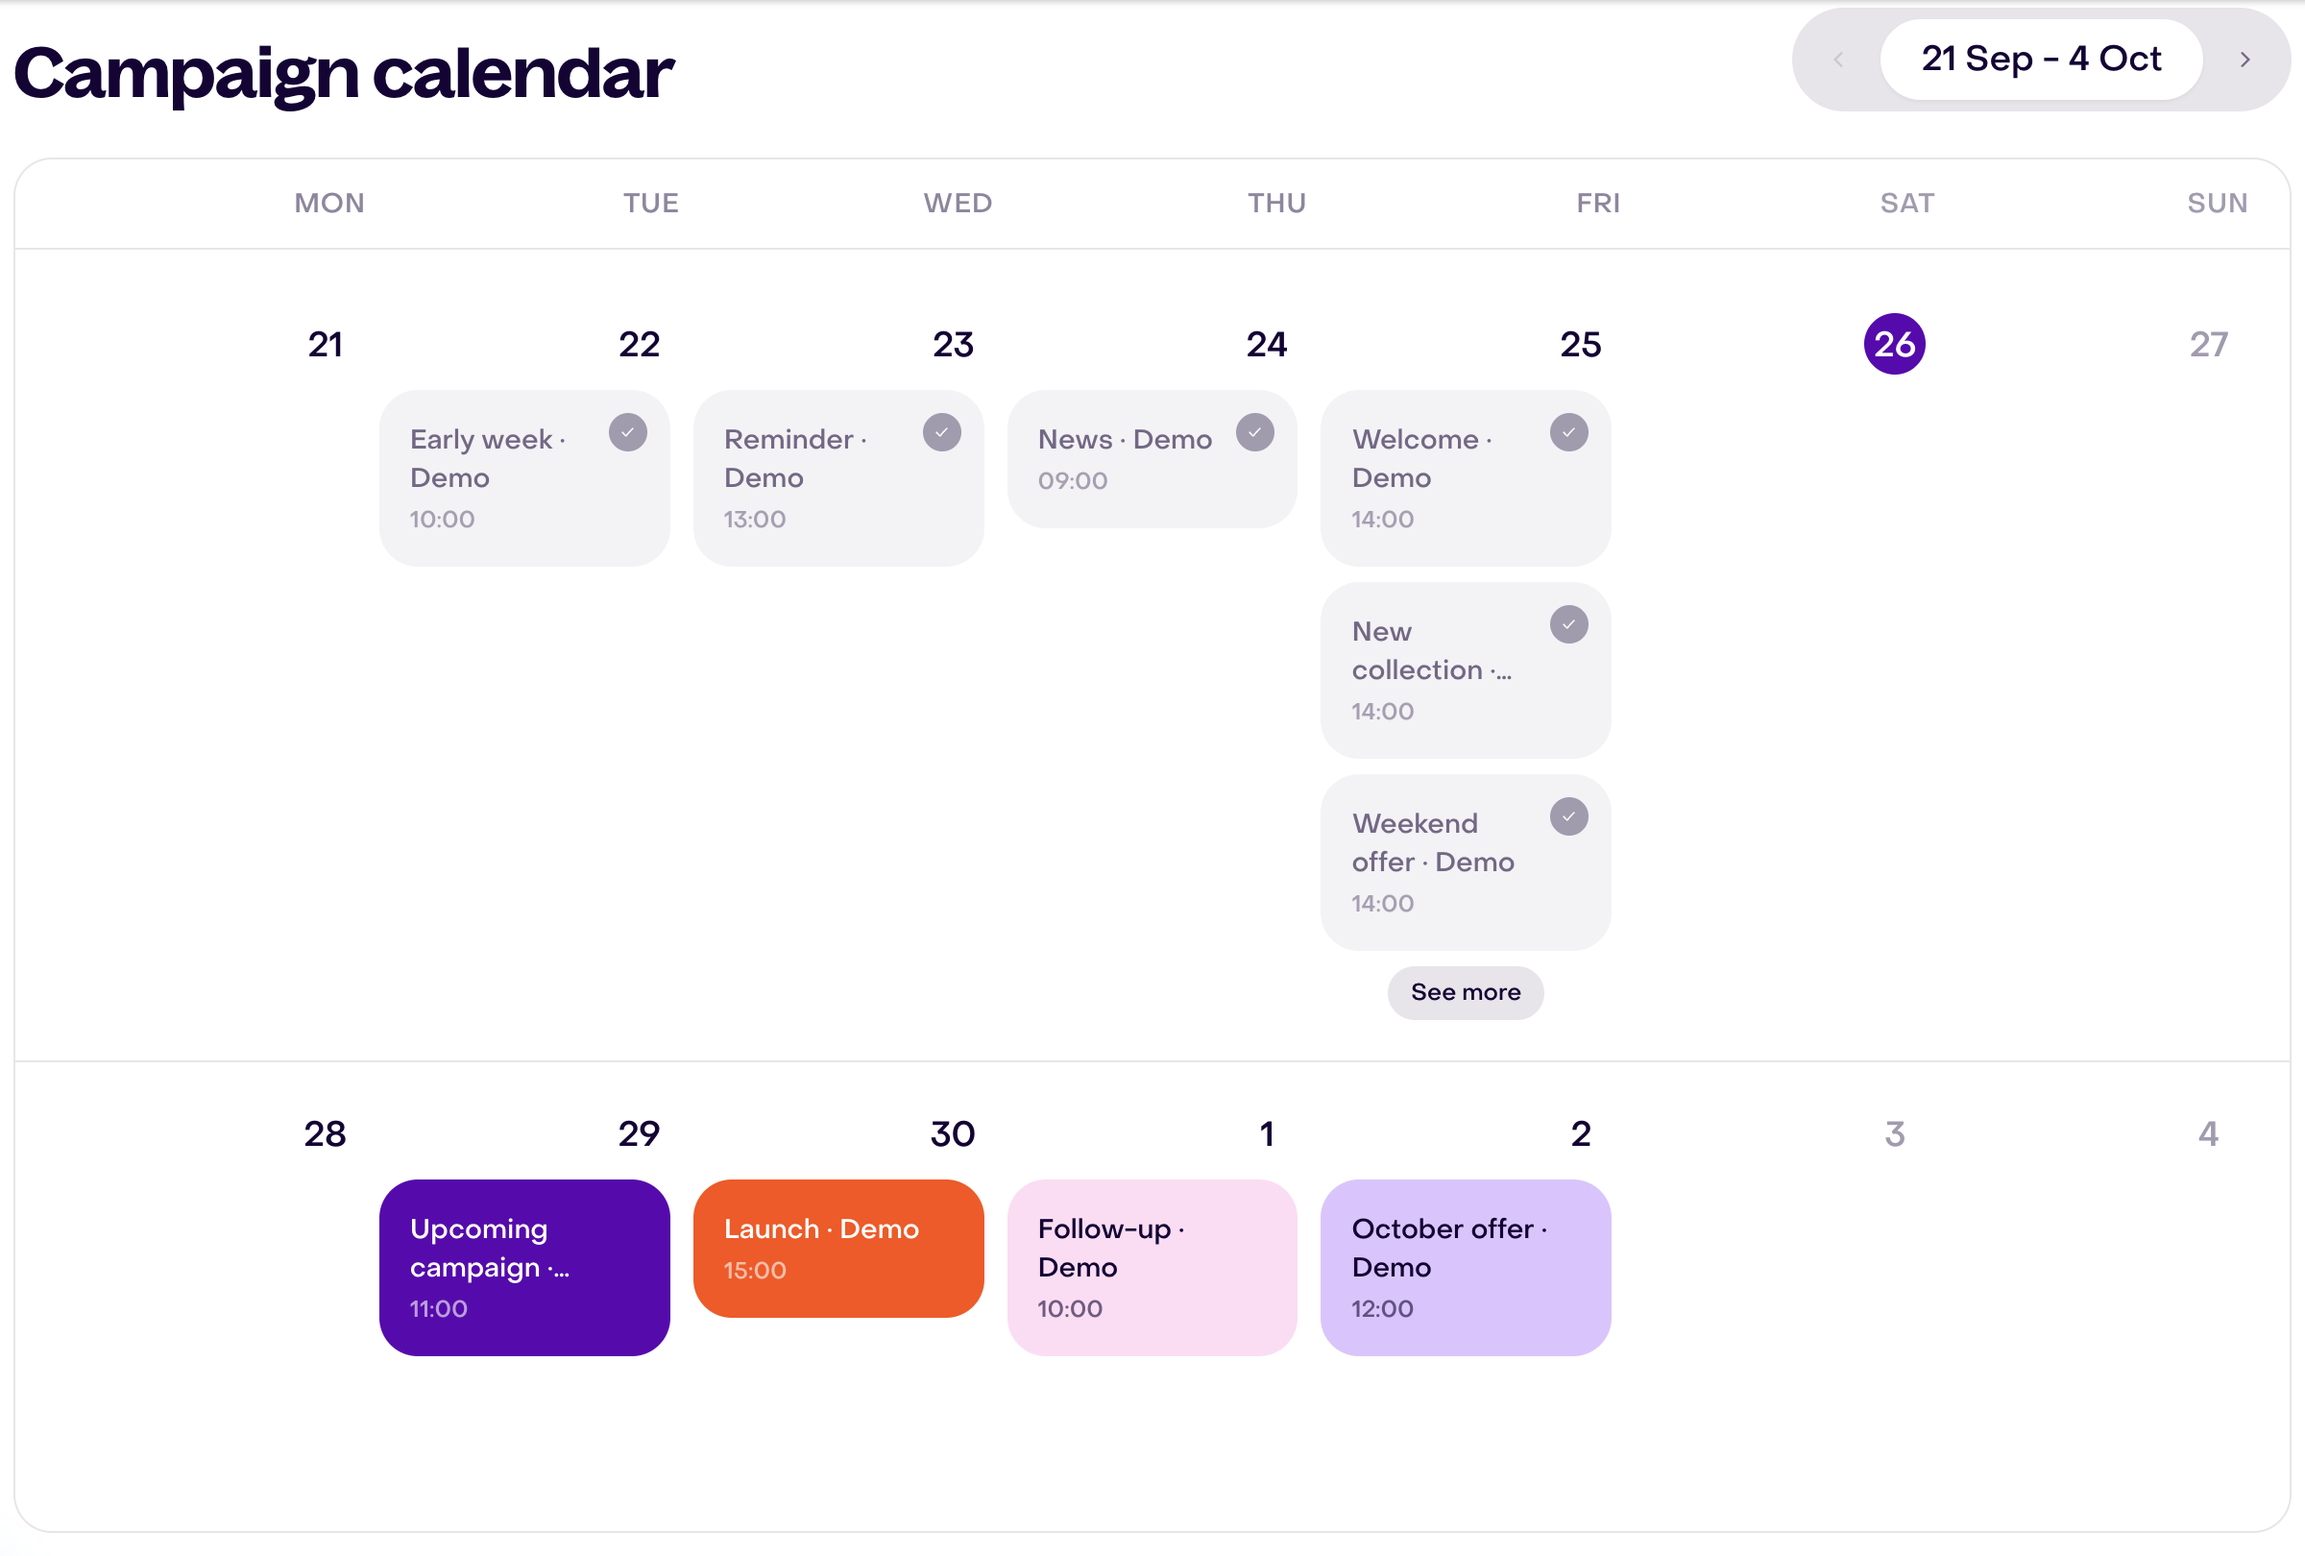
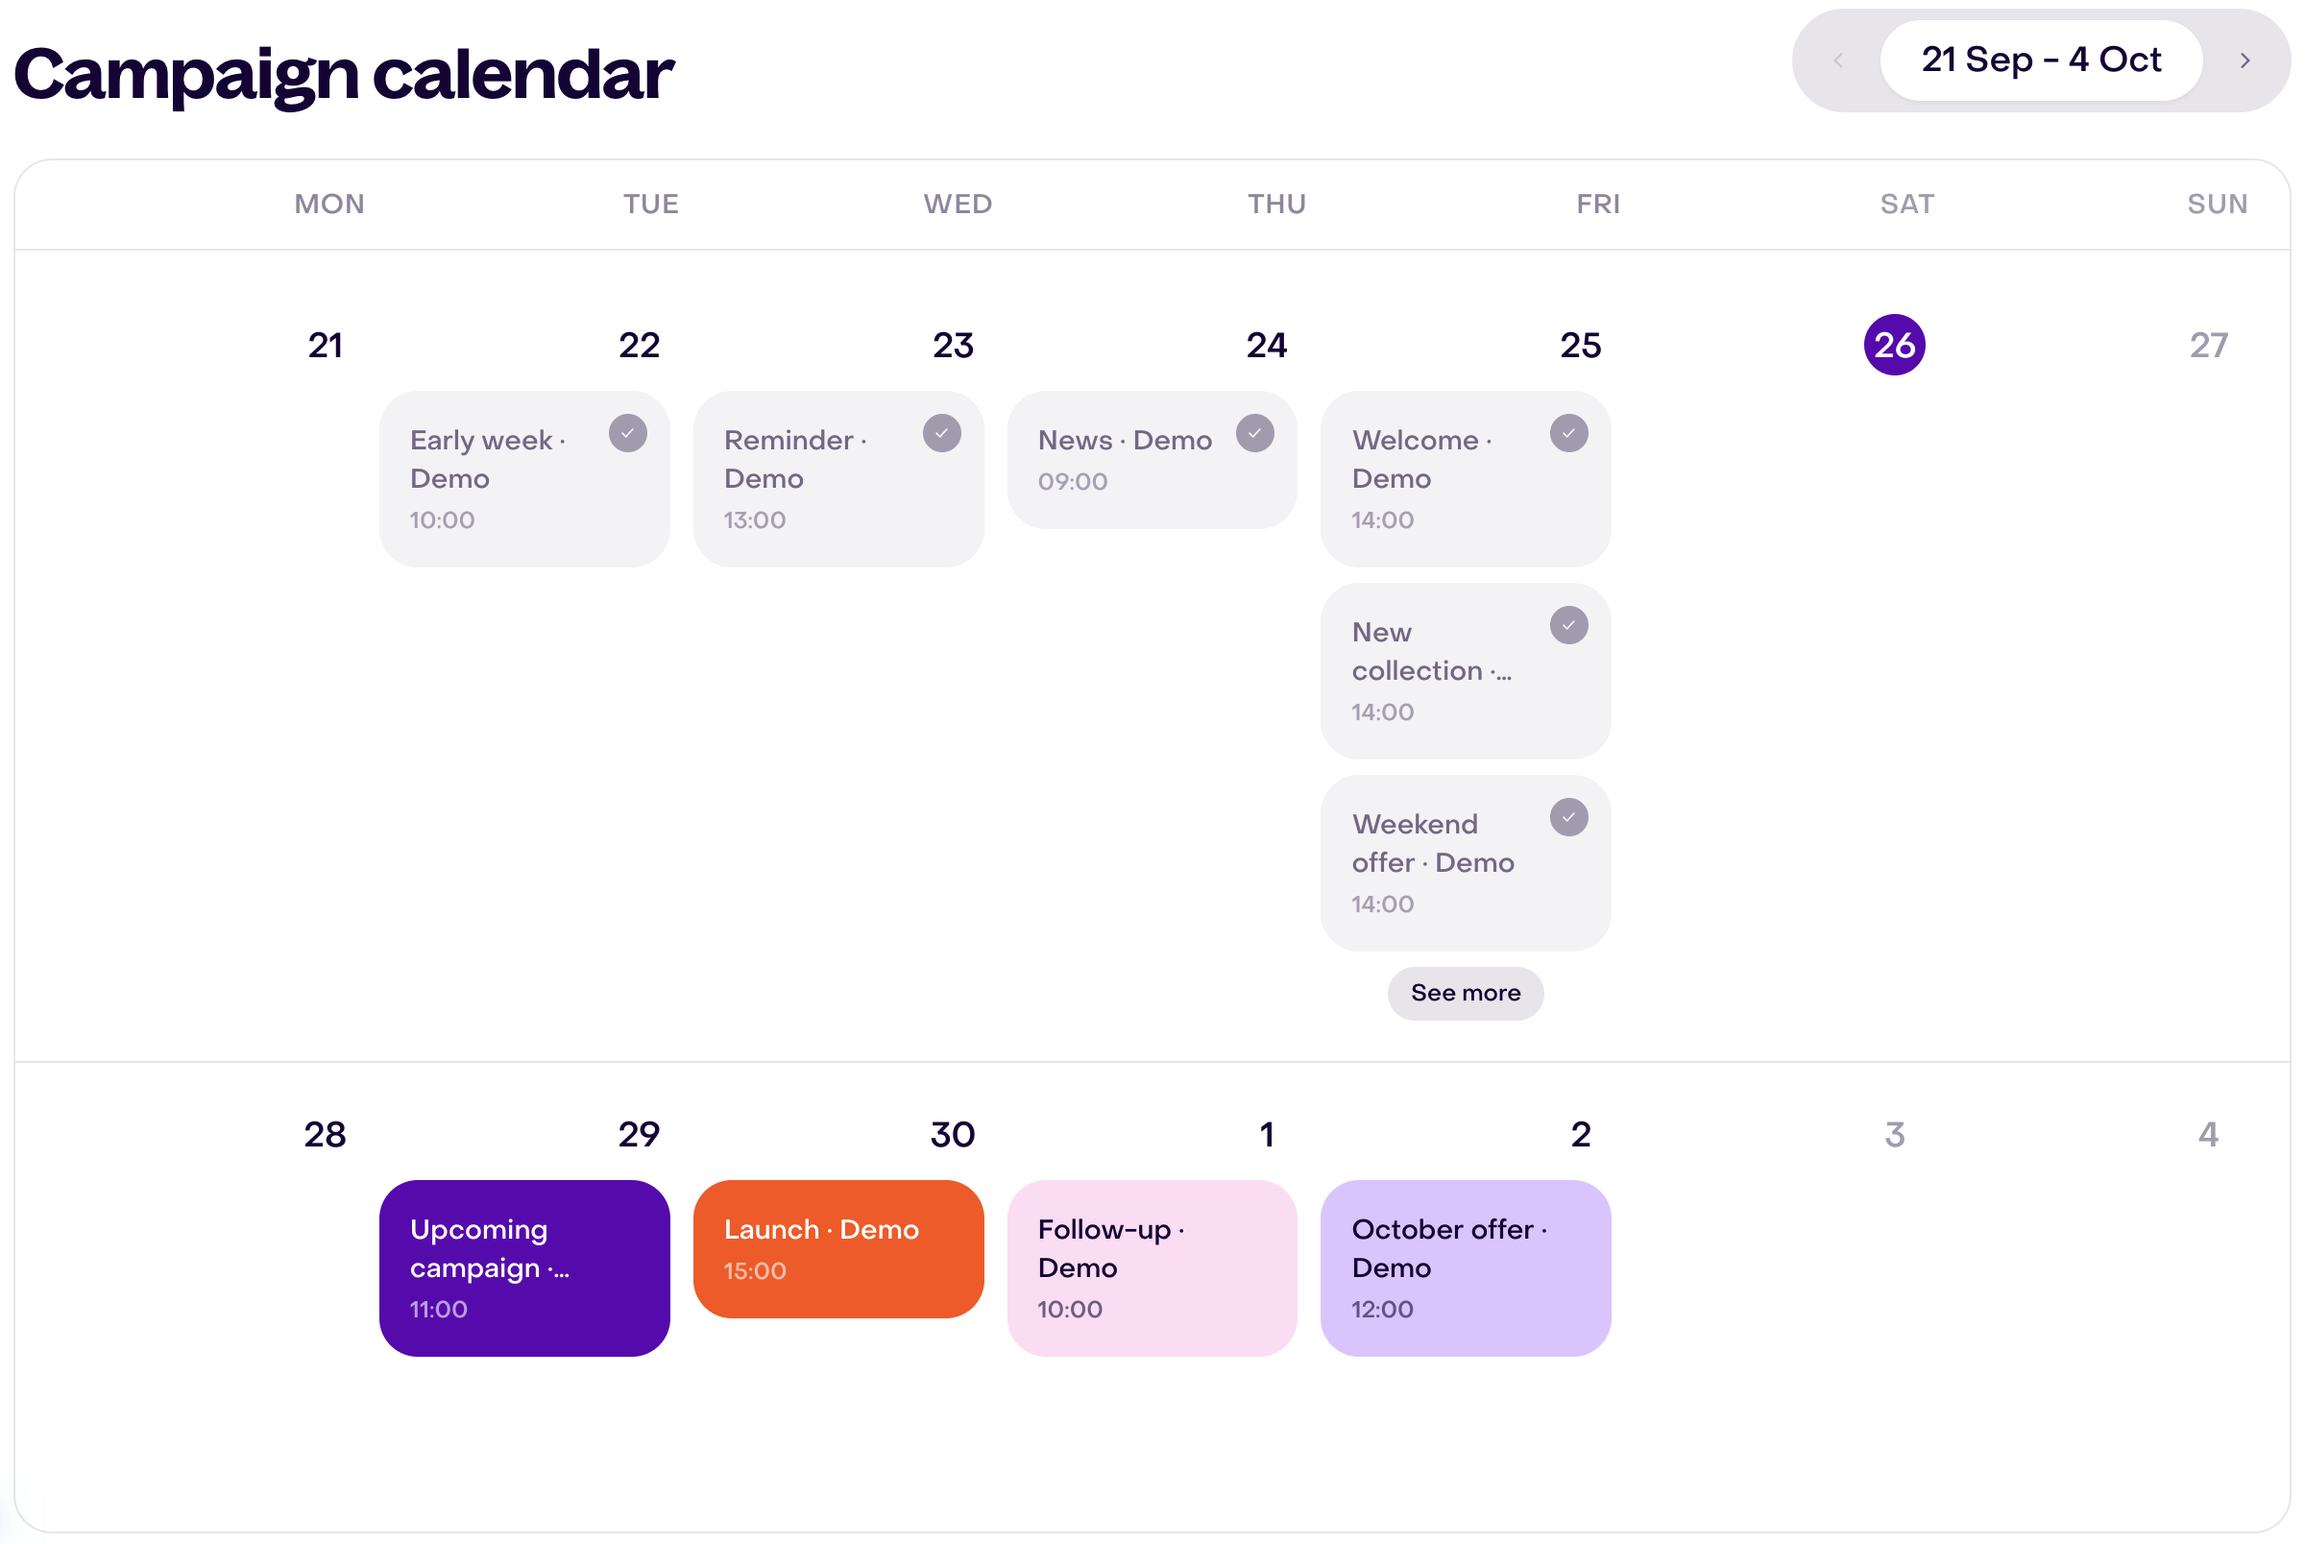
Remove top shadow from bilingual dashboard calendar captures

diff --git a/docs/editorial-work/dashboard-guide.md b/docs/editorial-work/dashboard-guide.md
@@ -93,3 +93,21 @@ The bilingual text and publication checks above remain valid, but the planned KP
 - The [post-merge main Build](https://github.com/hellotext/help/actions/runs/36271323228) passed. Netlify's published deploy `6ab831eb2eee2d0008ebbc7c` was `ready` for `main` commit `c03d9b6e6460cf0263905ce61490dafff5fe6eca` and published at 20:58:47.186 UTC through the normal Git integration; no manual deploy was made.
 - Both public guides, [Spanish](https://help.hellotext.com/es/guia-dashboard) and [English](https://help.hellotext.com/dashboard-guide), returned HTTP 200 and each referenced exactly one new localized calendar image, with no old close-up references. Both public PNGs returned HTTP 200 `image/png`; their bytes match the original and built asset SHA-256 values in the capture table. The public response reported `Server: Netlify`. Verified around 21:00 UTC.
 - The full-calendar correction is integrated and publicly verified in both languages. Keep `progress.csv` at `visual_pending` and its local verifier `a39f7267a334d63e24d9b1cf3b0893525ad0f809` because KPI and Actions screenshots remain pending.
+
+## Calendar top-edge correction plan (2026-09-26)
+
+- Reader feedback identified a thin gray shadow across the top of the two published calendar PNGs. Pixel inspection found it in rows 0–9, while the English date selector begins at row 8. A simple rectangular crop of the existing English image would cut the control. Reframe and recapture both locales from the isolated demonstration Dashboard so the shadow is outside the source rectangle and the title, date selector, seven weekday columns, two week rows, and lower border remain complete.
[1 lines of base64/hex data omitted]
+- Keep the article copy, slugs, links, publication state, and figure behavior unchanged. Update only the two image files, their true height attributes, and provenance. Use the guarded exact-window ScreenCaptureKit route on the same P3 display at native 2× density; review source pixels for the complete border, clean top edge, cursor, debug overlay, and synthetic-only data. Verify built pages and assets at desktop and mobile, then publish through the existing PR and Netlify flow. Keep `progress.csv` at `visual_pending` because KPI and Actions figures remain separate work.
+
+## Calendar top-edge local verification (2026-09-26)
+
+| Locale | Guarded native source rectangle (points) | PNG pixels | SHA-256 |
+| --- | --- | --- | --- |
[2 lines of base64/hex data omitted]
+
+- The isolated Rails Dashboard was viewed at a 1250 × 844 browser viewport and scrolled so its 794-point calendar section fit at roughly 13–807 CSS pixels. The guarded exact Chrome window ID `26501` was captured directly from the P3 display; the rectangle begins below the browser debugging-bar shadow and ends after the calendar's bottom border. The English demo campaign titles and user locale were temporarily switched in the guarded isolated database, then restored to Spanish. The viewport override was reset. No real account, contact, delivery job or message was changed.
+- Both new native PNGs were inspected at original size and independently reviewed against the preserved old versions. Each has a clean white top edge, complete localized title and date selector, seven columns, both week rows, synthetic sent and upcoming cards, and complete bottom border. No pointer, debug bar, profiler badge, personal data or contact identifiers are visible. `file` reports genuine RGBA PNGs, `sips` reports embedded Display P3, and original, checked-in and built asset SHA-256 values match in the root and Spanish build copies. The 2400-pixel source width is 3× the intended 800 CSS-pixel maximum.
+- `PATH="$HOME/.rbenv/shims:$PATH" BUNDLE_PATH=vendor/bundle yarn build` passed, including the security-header verifier. The only article-body change in either language is the image's true height, from 1620 to 1608; the shared stub is unchanged. The complete Spanish and English articles were visually reviewed at 1280 × 720 desktop and 390 × 844 mobile. The images render at about 609 and 316 CSS pixels respectively, with no horizontal overflow or image links. The top shadow is absent and the entire calendar remains visible in both layouts. `git diff --check` passed.
+- This correction is verified locally. PR, merge, Netlify deployment and public served-asset checks remain pending. `progress.csv` stays `visual_pending` because KPI and Actions figures still require separate screenshots.

diff --git a/docs/editorial-work/originals/dashboard-guide/pre-shadow-correction/dashboard-guide-es.md b/docs/editorial-work/originals/dashboard-guide/pre-shadow-correction/dashboard-guide-es.md
@@ -88,7 +88,7 @@ En este ejemplo, la primera semana muestra campañas enviadas en gris con una ma
 <figure class="ht-editorial-visual ht-editorial-visual--screenshot" aria-label="Calendario completo de campañas de dos semanas">
   <div class="ht-editorial-visual__stage">
     <div class="ht-editorial-visual__image-frame">
-      <img class="ht-editorial-visual__image" src="/images/analytics-reporting-attribution/dashboard-guide/calendar-overview-es.png" width="2400" height="1608" loading="lazy" decoding="async" alt="Calendario completo del 21 de septiembre al 4 de octubre: campañas enviadas del 22 al 25 con marcas de verificación y campañas próximas del 29 de septiembre al 2 de octubre en tarjetas de color." />
+      <img class="ht-editorial-visual__image" src="/images/analytics-reporting-attribution/dashboard-guide/calendar-overview-es.png" width="2400" height="1620" loading="lazy" decoding="async" alt="Calendario completo del 21 de septiembre al 4 de octubre: campañas enviadas del 22 al 25 con marcas de verificación y campañas próximas del 29 de septiembre al 2 de octubre en tarjetas de color." />
     </div>
   </div>
   <figcaption class="ht-editorial-visual__caption">Calendario real de Hellotext en español con campañas de demostración enviadas y próximas distribuidas en dos semanas.</figcaption>

diff --git a/docs/editorial-work/originals/dashboard-guide/pre-shadow-correction/dashboard-guide-en.md b/docs/editorial-work/originals/dashboard-guide/pre-shadow-correction/dashboard-guide-en.md
@@ -88,7 +88,7 @@ In this example, the first week shows delivered campaigns in gray with a check m
 <figure class="ht-editorial-visual ht-editorial-visual--screenshot" aria-label="Complete two-week campaign calendar">
   <div class="ht-editorial-visual__stage">
     <div class="ht-editorial-visual__image-frame">
-      <img class="ht-editorial-visual__image" src="/images/analytics-reporting-attribution/dashboard-guide/calendar-overview-en.png" width="2400" height="1608" loading="lazy" decoding="async" alt="Complete calendar from September 21 to October 4: delivered campaigns from September 22 to 25 with check marks and upcoming campaigns from September 29 to October 2 in colored cards." />
+      <img class="ht-editorial-visual__image" src="/images/analytics-reporting-attribution/dashboard-guide/calendar-overview-en.png" width="2400" height="1620" loading="lazy" decoding="async" alt="Complete calendar from September 21 to October 4: delivered campaigns from September 22 to 25 with check marks and upcoming campaigns from September 29 to October 2 in colored cards." />
     </div>
   </div>
   <figcaption class="ht-editorial-visual__caption">Real English Hellotext calendar with delivered and upcoming demonstration campaigns across two weeks.</figcaption>

diff --git a/docs/editorial-work/originals/dashboard-guide/pre-shadow-correction/dashboard-guide-stub.md b/docs/editorial-work/originals/dashboard-guide/pre-shadow-correction/dashboard-guide-stub.md
@@ -1,0 +1,20 @@
+---
+languages: ["en", "es"]
+navigation_group: foundations
+
+en:
+  title: Dashboard guide
+  description: Read the 14-day overview, tracked actions, campaign calendar, and detailed business and operations reports from one place.
+es:
+  title: Guía del Dashboard
+  description: Interpreta el resumen de 14 días, las acciones registradas, el calendario de campañas y los reportes detallados de negocio y operaciones.
+
+permalink: dashboard-guide
+permalink_es: guia-dashboard
+
+layout: guide
+topic: analytics-reporting-attribution
+popular: false
+---
+
+{% translate_file analytics-reporting-attribution/dashboard-guide.md %}
